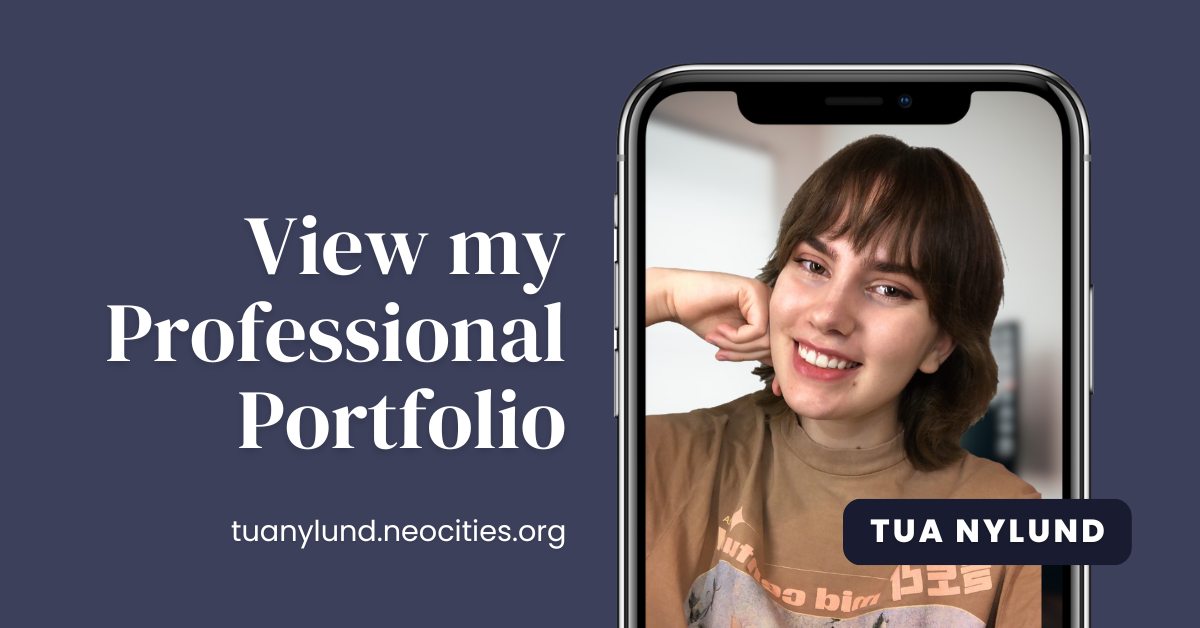
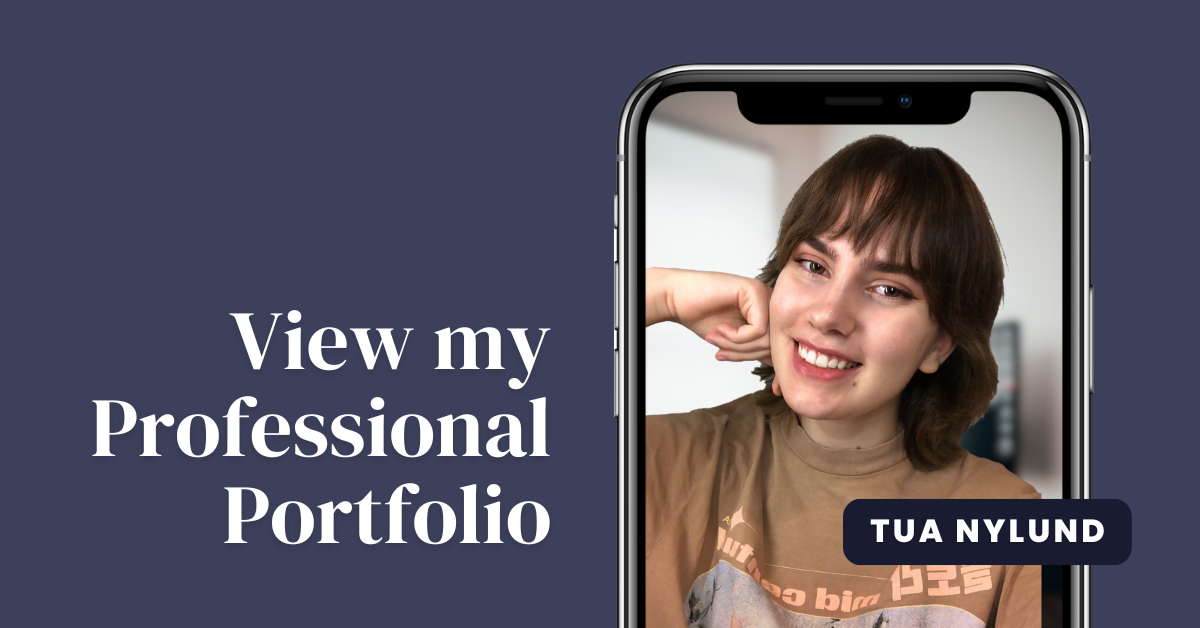
Updated meta image

Changed region(s): [[0.0617, 0.3328, 0.4933, 0.7261], [0.185, 0.7564, 0.4933, 0.8774]]

diff --git a/index.html b/index.html
@@ -26,7 +26,7 @@
   <meta name="language" content="English">
   <meta name="revisit-after" content="30 days">
   <meta name="author" content="Tua Nylund">
-  <meta property="og:image" content="https://tuanylund.neocities.org/SEO_banner_tuanylund.png" />
+  <meta property="og:image" content="https://tuanpuoleinen.github.io/SEO_banner_tuanylund.png" />
   <meta property="og:image:width" content="1200" />
   <meta property="og:image:height" content="628" />
 </head>
